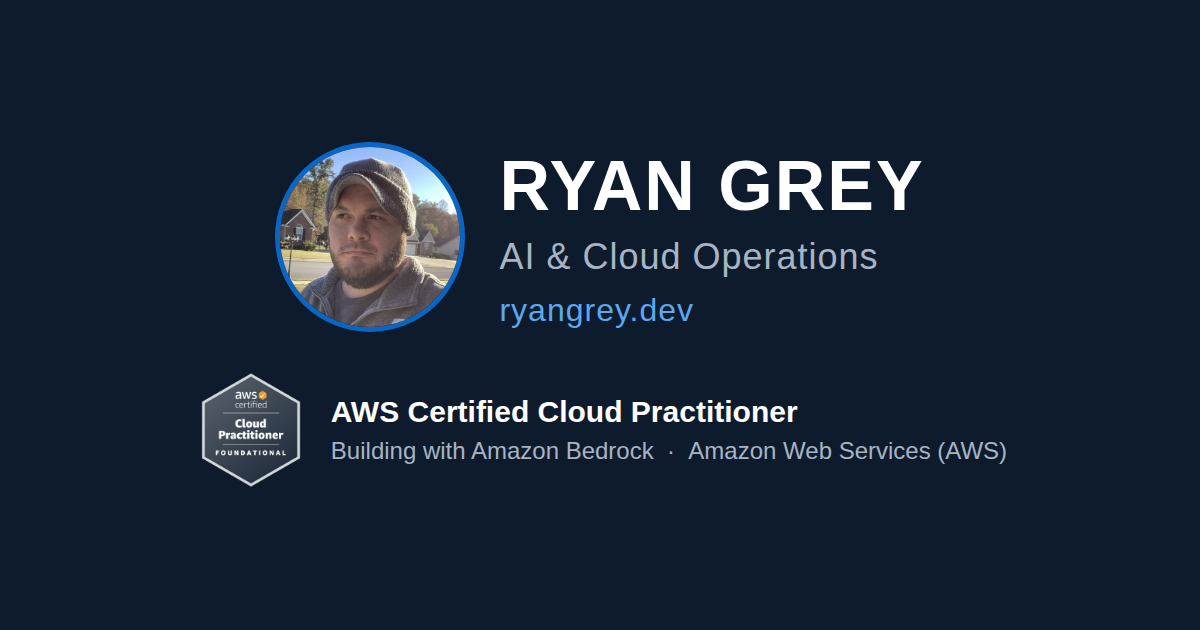
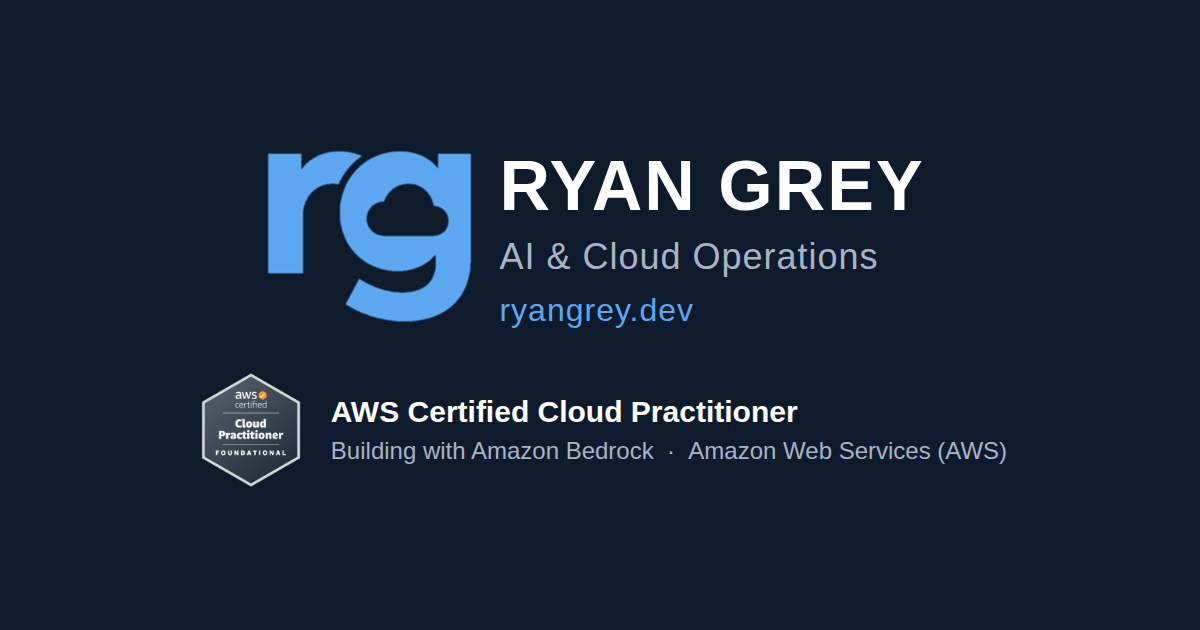
Update portfolio and site infrastructure

Changed region(s): [[0.2158, 0.2111, 0.4008, 0.5429]]

diff --git a/index.html b/index.html
@@ -144,7 +144,7 @@
 
   <header>
     <div class="hero">
-      <img class="avatar" src="ryan-grey.jpg" width="150" height="150" decoding="async" alt="Ryan Grey">
+      <img class="avatar" src="rg-avatar.png" width="150" height="150" decoding="async" alt="Ryan Grey">
       <div class="herotext">
         <div class="kicker">Open to remote</div>
         <h1>Ryan Grey</h1>
